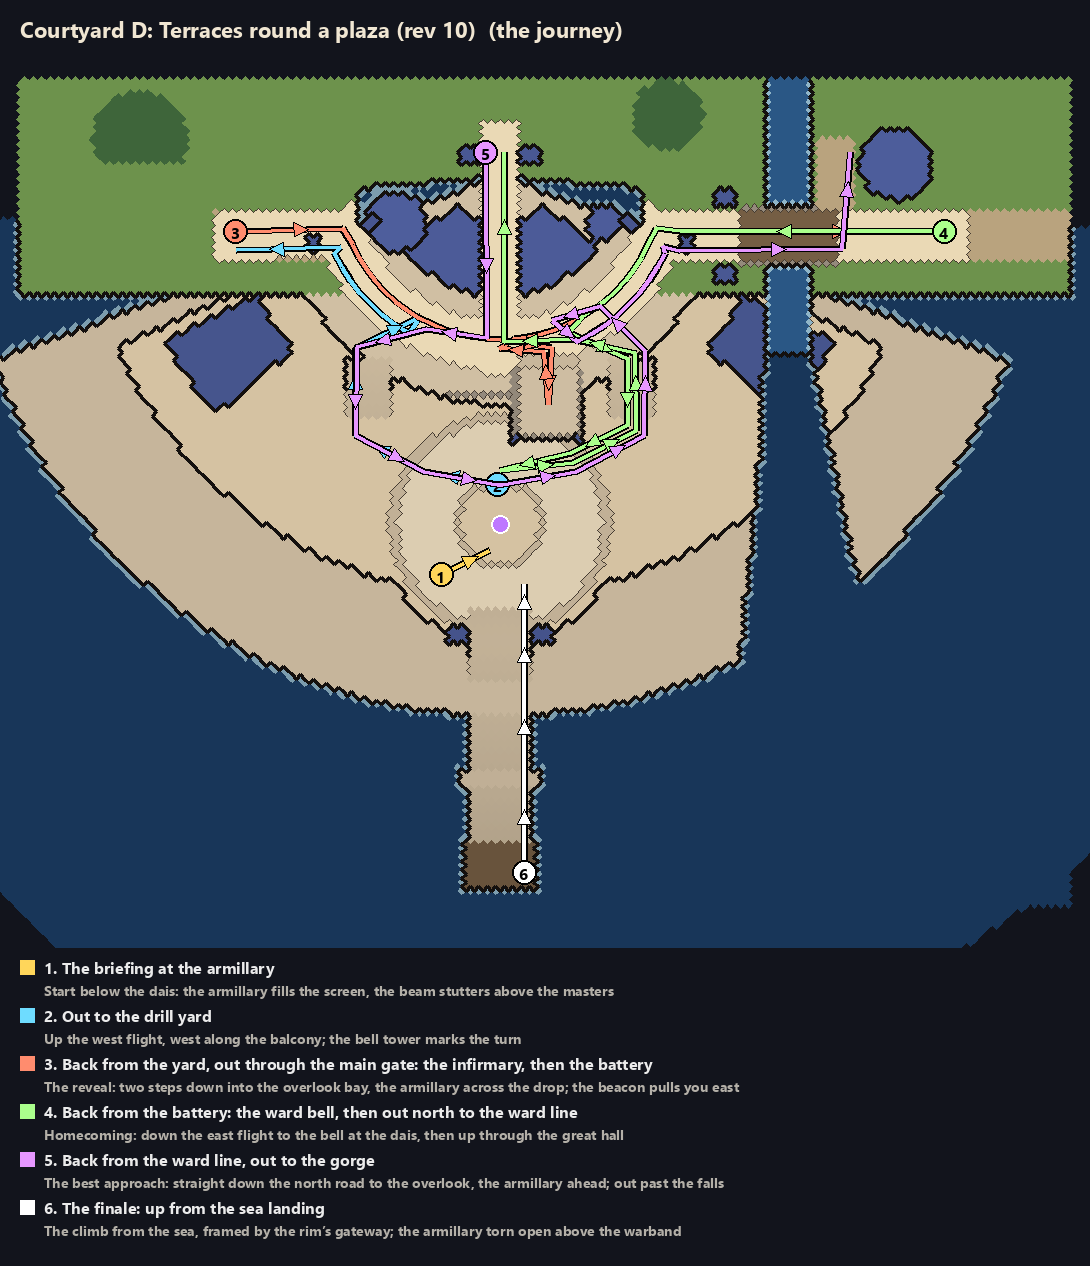
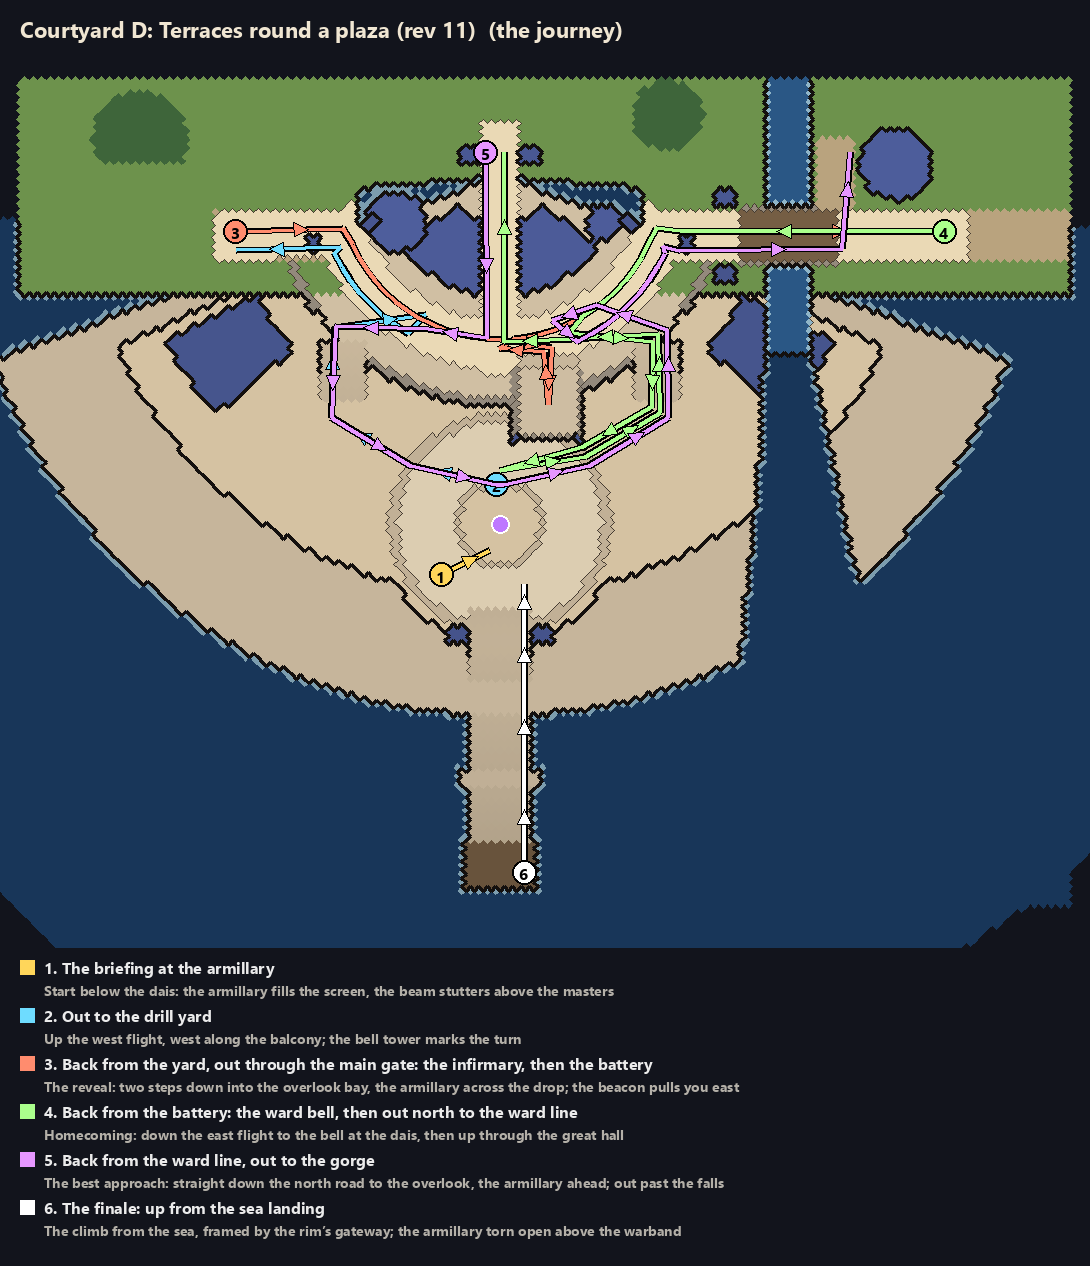
Courtyard D rev 11, the sense stage begins: flights clear of the overlook bay, the bridge's south tower a post, a parapet along the balcony's lip; the armillary stays large with camera sequences (the user)
Claude-Session: https://claude.ai/code/session_01JAzvjimAGaEKKq76NLS6sr

diff --git a/tools/segments/01-opening/segment.js b/tools/segments/01-opening/segment.js
@@ -13,7 +13,7 @@ board:{cols:['Brief and beats','Space diagram','Concept art','Blockout','Script'
  note:`One row per stop, one column per stage of the campaign workflow. A stop goes deep one at a time: the others wait at concept art until their turn. Updated with every change to the segment.`,
  rows:[
   ['0 · Briefing and the yard','#yard',[['done','Approved 11-22'],['review','The plan, below'],['done','Approved 11-22'],['review','Reworked 11-22: walk #yard'],['later'],['started','Props bought'],['later']]],
-  ['0 · The courtyard (hub)','#concept-court-plans',[['done'],['done','Plan D chosen 11-22; flow rev 5'],['done'],['done','Flow passed in the game, 7.5/10; sense next'],['later'],['started','Rounds 1–7, to be redone'],['later']]],
+  ['0 · The courtyard (hub)','#concept-court-plans',[['done'],['done','Plan D chosen 11-22; flow rev 5'],['done'],['started','Flow passed, 7.5/10; sense stage, rev 11'],['later'],['started','Rounds 1–7, to be redone'],['later']]],
   ['1 · Infirmary (Life)','https://claude.ai/artifact/9DwUCZHa8ibckf2vWiFews',[['done','Thorns added (r2)'],['next','After the yard'],['done','Two rounds'],['later'],['later'],['later'],['later']]],
   ['2 · Battery (Fire)','#battery',[['next','Rewrite as your second element'],['done'],['done'],['done','Repair beat open'],['later'],['started','Defence, well, wall'],['later']]],
   ['3 · Ward line (Shield)','https://claude.ai/artifact/9DwUCZHa8ibckf2vWiFews',[['started','The fix: burn something off'],['later'],['done'],['later'],['later'],['later'],['later']]],

diff --git a/tools/place-plans/plans/court-d.py b/tools/place-plans/plans/court-d.py
@@ -50,11 +50,16 @@ end of the road is a screen shorter; the bell tower has bulk; the north road end
 Revision 10 (the fourth in-game flow round, 7/10 for the layout alone): the overlook steps down two treads into its own
 bay east of the axis, its prow over the drop, so it reads as a place apart and not as the north road's crossroads; the
 passage through the great hall is a screen shorter; the gorge path is shorter, beside the falls. The rest is camera (a
-look-ahead that keeps the landmark in frame) and dressing."""
+look-ahead that keeps the landmark in frame) and dressing.
+
+Revision 11 (the sense stage, after flow passed in the game at 7.5/10): the flights move 4 u out so the east flight's head
+stands clear of the overlook bay; the bridge's tall south tower becomes a post, so it can't hide you; a low parapet runs
+along the balcony's lip, broken only at the two flights and the bay, which gives the flight-head decks an edge and says
+where the way down is."""
 import sys, os; sys.path.insert(0, os.path.join(os.path.dirname(__file__), '..'))
 from plan import *
 
-P = Plan('court-d', 'Courtyard D: Terraces round a plaza (rev 10)', U=(-80, 95), V=(-56, 82))
+P = Plan('court-d', 'Courtyard D: Terraces round a plaza (rev 11)', U=(-80, 95), V=(-56, 82))
 C = (0, -40)            # the amphitheatre's centre, up the screen
 ARM = (0, 18)
 SEA = -9.0
@@ -80,12 +85,13 @@ P.building(arc_band(C, 8, 20, 35, 145), 6.0, 12.0, 'great hall', doors=[polar(C,
 P.fill(orect(polar(C, 14, 90), 6, 14, math.radians(90)), 6.0, 'path')
 P.fill(rect(-3, -46, 3, -30), 6.0, 'path')
 for du in (-6.5, 3.5): P.building(rect(du, -45, du + 3, -42), 6.0, 8.0)                              # the north gate's towers
-for su in (-22, 22): P.stairs(orect((su, -4.5), 8, 10, math.radians(90)), 6.0, 3.0, 90)              # the paired flights, either side of the dais
+for su in (-26, 26): P.stairs(orect((su, -7.5), 8, 10, math.radians(90)), 6.0, 3.0, 90)              # the paired flights, either side of the dais
 P.fill(rect(3, -10, 13, -8), 5.5, 'stairs'); P.fill(rect(3, -8, 13, 3), 5.0, 'paving')             # the overlook: two treads down into a bay jutting over the drop, east of the axis
 P.building(rect(3, 3, 13, 4), 5.0, 1.0, roof='wall')                                                 # its parapet
 for du in (2, 13): P.building(rect(du, -8, du + 1, 4), 5.0, 1.0, roof='wall')                         # its side parapets
 for du in (1.5, 12.5): P.building(rect(du, 3, du + 1.5, 4.5), 5.0, 2.5)                              # low posts at its prow
-P.building(rect(-9, -4, 1.5, -3), 6.0, 1.0, roof='wall')                                             # a low parapet along the axis lip
+for a0, a1 in ((20, 36), (54, 69), (86, 126), (144, 160)):                                          # a low parapet along the balcony's lip, open at the flights and the bay
+    P.building(arc_band(C, 37, 38.5, a0, a1, 12), 6.0, 1.0, roof='wall')
 
 # the cross road: an arc along the top terrace in front of the hall, from the yard's seam to the battery's
 ARC = [polar(C, 28, a) for a in range(160, 89, -5)] + [polar(C, 28, a) for a in range(90, 19, -5)]
@@ -110,7 +116,7 @@ P.fill([(44, -56), (52, -56), (52, -10), (44, -10)], 4.0, 'water')              
 P.fill(rect(24, -34, 95, -26), 6.0, 'path')
 P.fill(rect(40, -34, 56, -26), 6.5, 'wood')                                                                        # the deck
 P.building(rect(40, -35, 56, -34), 6.5, 1.0, roof='wall'); P.building(rect(40, -26, 56, -25), 6.5, 1.0, roof='wall')   # parapets
-P.building(rect(36, -38, 39, -35), 6.0, 8.0); P.building(rect(36, -25, 39, -22), 6.0, 8.0)                         # gate towers
+P.building(rect(36, -38, 39, -35), 6.0, 8.0); P.building(rect(36, -25, 39, -22), 6.0, 3.0)                         # a gate tower north of the road, a post south of it
 P.building(circle((66, -42), 6), 6.0, 14, 'battery tower')
 BAT = (74, -30)
 P.fill(rect(53, -46, 59, -34), 6.0, 'path')                                                                        # the gorge path up beside the stream
@@ -130,8 +136,8 @@ P.h[(P.m == 'road') & (P.h == 6.0)] += 0.3                              # the ro
 P.landmark(ARM, 'the armillary', 10, 5.5)
 P.gate(YARD, 'to the drill yard'); P.gate(BAT, 'to the battery'); P.gate((0, -44), 'north road'); P.gate((0, 76), 'sea landing')
 J = polar(C, 28, 90); ARC_W, ARC_E = ARC[:15], ARC[14:]
-WT, WF, ET, EF, DAIS = (-22, -10), (-22, 2), (22, -10), (22, 2), (0, 9)       # the flights' tops and feet, the dais's north step
-WDOWN, EDOWN = [WT, WF, (-12, 7), DAIS], [ET, EF, (12, 7), DAIS]
+WT, WF, ET, EF, DAIS = (-26, -13), (-26, -1), (26, -13), (26, -1), (0, 9)       # the flights' tops and feet, the dais's north step
+WDOWN, EDOWN = [WT, WF, (-14, 6), DAIS], [ET, EF, (14, 6), DAIS]
 P.route([YARD] + ARC_W[:10] + WDOWN, 'main')                                         # arriving from the yard
 P.route([BAT, (30, -30)] + ARC_E[::-1][:10] + EDOWN, 'main')                          # coming back from the battery
 P.route([(0, -44), J, (-12, -12)] + WDOWN, 'main')                                   # the north road

diff --git a/docs/threads/opening.md b/docs/threads/opening.md
@@ -10,7 +10,7 @@ The opening is now a chain of eight stops: at each one you fix a machine and get
 
 ## Next
 
-- [ ] The courtyard under the new cycle ([making a place](../campaign/making-a-place.md)): plan D chosen (2026-11-22). Flow on frames done (revision 5, four rounds; [the read](../campaign/01-opening/court-read.md#stage-1-and-2-the-plan-and-flow-on-frames)). The grey-box was walked in-game on 2026-11-22 (4/10: too big at play zoom), so plan D rev 7 pulls it together. In-game round 2 on rev 7 (5/10): the armillary hid the grand stair, so rev 8 flanks the dais with two flights and cuts the armillary to about 70%. Flow passed in the game (rev 10, 7.5/10 after 4, 5, 6, 7). Next: the user's call on the armillary and the camera (a camera moment of its own for the briefing and the finale, my recommendation, or a much smaller armillary); then the sense stage (the sense lint, phase 7 of the height thread, and the sense critic) with the leftovers listed in [the courtyard's read](../campaign/01-opening/court-read.md#stage-2-in-the-game-and-whats-left-for-stages-3-and-4).
+- [ ] The courtyard under the new cycle ([making a place](../campaign/making-a-place.md)): plan D chosen (2026-11-22). Flow on frames done (revision 5, four rounds; [the read](../campaign/01-opening/court-read.md#stage-1-and-2-the-plan-and-flow-on-frames)). The grey-box was walked in-game on 2026-11-22 (4/10: too big at play zoom), so plan D rev 7 pulls it together. In-game round 2 on rev 7 (5/10): the armillary hid the grand stair, so rev 8 flanks the dais with two flights and cuts the armillary to about 70%. Flow passed in the game (rev 10, 7.5/10 after 4, 5, 6, 7). The armillary stays large, with camera sequences at the briefing and the finale (the user). Sense stage started: rev 11 fixes the edges. Then the sense lint (phase 7 of the height thread) and the sense critic (the sense lint, phase 7 of the height thread, and the sense critic) with the leftovers listed in [the courtyard's read](../campaign/01-opening/court-read.md#stage-2-in-the-game-and-whats-left-for-stages-3-and-4).
 - [x] The yard's space diagram and blockout (2026-11-22). Next: the user walks it.
 - [ ] The district's roads as a space diagram with walk times, and where the small fights go.
 - [ ] The infirmary (Life, the first cast): space diagram, Codex concept from the blockout's footprint, then an LDtk blockout. It's the smallest test of the new shape.

diff --git a/docs/decisions/README.md b/docs/decisions/README.md
@@ -1677,4 +1677,5 @@ The user, on the kit-built yard buildings: "the buildings look absolutely horrif
 - **The user:** after seven overnight rounds on the courtyard: "it still looks like there's some fundamental problems with how the iteration is happening... guiding us towards a local maxima": the same rectangular layout, no depth ("the water looks more like a carpet"), no flow, details that make no sense. "What structure can we build to make you better at this?" On the proposal: "a much better plan... it's very important that we allow ourselves to iterate on it over time, so it needs to be persisted and have some notion of how to improve on the cycle itself."
 - **Decided:** a place goes through read, structure, flow, sense and beauty, each with its own critic and gate; structure starts from three plans that really differ, drawn from plan specs (`tools/place-plans/`); a sense lint in `content:check`; anything the user catches becomes a rule at the stage that should have caught it, logged in the cycle log; critic briefs are calibrated against the concept and a known-bad build.
 - **Why:** the beauty-only loop could only polish what the engine and the first layout allowed; it plateaued at 6/10.
+- **The armillary (same day):** it stays large (about seven wizards). Play shows pieces of it, and camera sequences at the briefing and the finale bring all of it into view. The user: "keep it large, and only show pieces of it on screen at a time, with maybe some sequences where the whole thing comes into view."
 - **Then (same day):** the user started the engine rework in its own session (docs/threads/height.md) and chose the courtyard's plan D: "Your pick for layout seems good. Overall these outlines look a lot better."

diff --git a/docs/campaign/01-opening/court-read.md b/docs/campaign/01-opening/court-read.md
@@ -101,12 +101,12 @@ The grey-box was walked in the game five times (2026-11-22, `npm run shot:route`
 | 4 | rev 9 | The overlook read as a crossroads; the hall passage and the gorge path were dead |
 | 5 | rev 10 | Ready for the sense stage; the reveal lands in the overlook bay |
 
-**For the sense stage:**
+**For the sense stage** (rev 11 makes the first three fixes: the flights 4 u further out, the bridge's south tower a 3 m post, a parapet along the balcony's lip open at the flights and the bay):
 - The overlook bay and the east flight's head blur together: separate them with a parapet run, or move the flight's head a tread east.
 - The bridgehead's tall gate tower stands south of the route at the east end, so it hides the wizard for a moment. Move it north of the path, or thin it.
 - The decks at the flights' heads are big and blank: give them an edge and a direction.
 
-**For the camera (engine):** the armillary can't be seen whole with the party in a 1080p frame (about 390 art px against about 170 px of view). The look-ahead helps. The briefing and the finale need a camera moment of their own, or the armillary has to be much smaller: the user's call, asked 2026-11-22.
+**For the camera (engine):** the armillary can't be seen whole with the party in a 1080p frame (about 390 art px against about 170 px of view). The look-ahead helps. **The user (2026-11-22): "keep it large, and only show pieces of it on screen at a time, with maybe some sequences where the whole thing comes into view."** So it stays at about seven wizards tall, and the briefing and the finale get camera sequences that bring the whole armillary into view (asked of the engine session).
 
 **For dressing:**
 - a tall marker at the gorge exit;

diff --git a/docs/threads/height.md b/docs/threads/height.md
@@ -36,6 +36,7 @@ Docs: `game/content/README.md` (Height), `docs/current-state.md`, and the room l
 - [ ] Phase 4, minimal (after phase 6; the user left the order to Claude and asked for both, 2026-11-22): `zAt(x, y)`, with bodies and props drawn at their tier's height, and cliff faces as flat-coloured strips. That's enough to walk the grey-box and judge flow.
 - [ ] Two fixes from the first in-game flow round (2026-11-22): the camera should follow the wizard's drawn position at height, not the unlifted ground point; and the generated court needs the armillary prop on its dais.
 - [ ] A camera look-ahead for landmarks (the fourth in-game flow round on the courtyard, 2026-11-22): within about a screen of a tall landmark, bias the framing so the whole of it stays in view. Walking up the screen towards the armillary, it leaves the top of the frame (the briefing, the finale climb).
+- [ ] Camera sequences (the user, 2026-11-22): at the courtyard's briefing and finale arrival, a scripted pull-back or pan brings the whole armillary into view, then returns to play. It's triggered from a level marker.
 - [ ] Seams between places (proposed): `content:check` verifies both sides of each seam match. See [the continuous world](../explorations/2026-11-09-continuous-world-todo.md#2026-11-22-the-segment-as-one-map).
 - [ ] Phase 7: the sense lint in `content:check`.
 - [ ] Before any art: phase 3 (shots and height), phase 4 in full (painted cliff faces, effects and lighting at height), phase 5 (buildings sorted by footprint).
